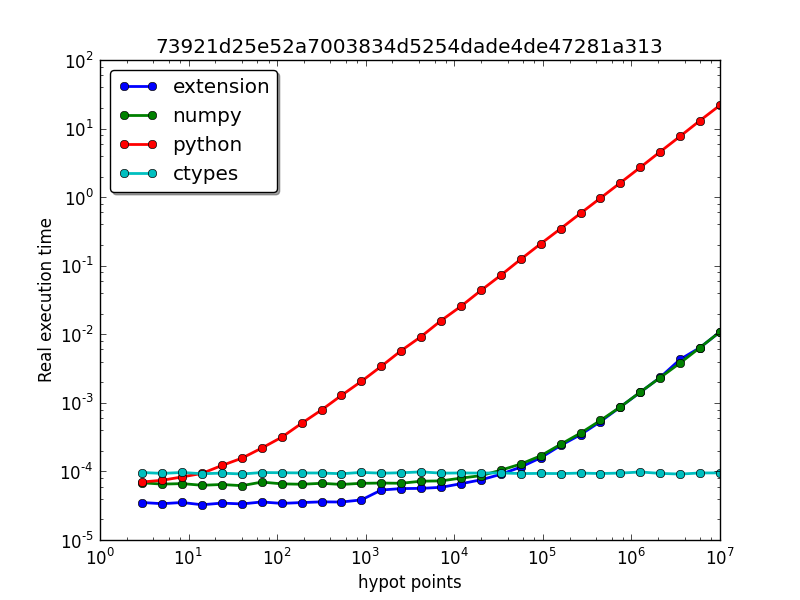
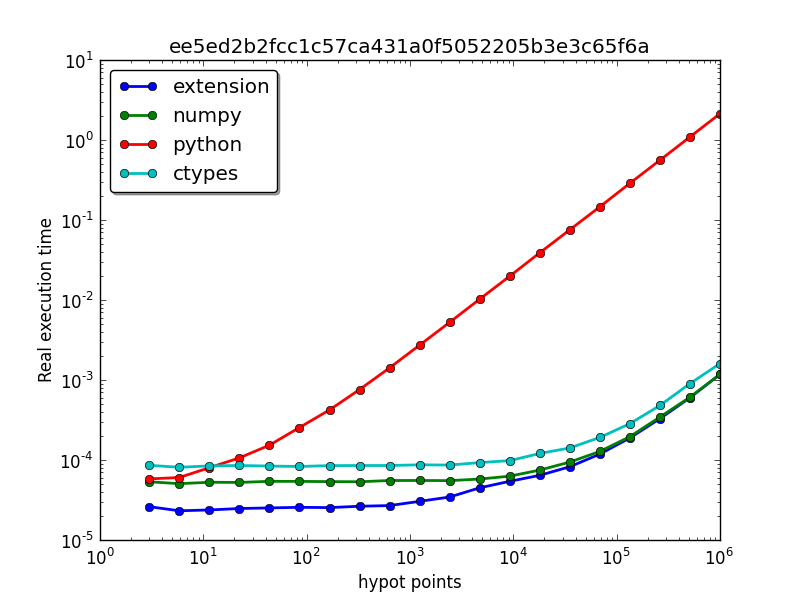
toolbox: more tweaking and changes to hypot() to make it as fast possible as a learning tool

diff --git a/spacepy/toolbox/_toolboxmodule.c b/spacepy/toolbox/_toolboxmodule.c
@@ -10,6 +10,7 @@
 #include <Python.h>
 #include <math.h>
 #include <numpy/arrayobject.h>
+
 #include <datetime.h>
 
 #define PyNumber_AsDouble(y) PyFloat_AsDouble(PyNumber_Float(y))
@@ -141,8 +142,7 @@ static PyObject *hypot_tb(PyObject *self, PyObject *args)
     PyObject *temp_p, *temp_seq;
     PyArrayObject* temp_array;
     PyArray_Descr *array_type;
-    npy_intp j;
-    double *temp_data;
+    double *temp_data, *data_end;
     double tot=0., tmp_d;
 
     if(!TupleSize) {
@@ -161,7 +161,7 @@ static PyObject *hypot_tb(PyObject *self, PyObject *args)
             temp_p = PyArray_Ravel((PyArrayObject*)temp_p, 0);
             arraySize = PyArray_SIZE((PyArrayObject*)temp_p);
 
-            if(arraySize >= 1000) {
+            if(arraySize >= 8000) {
                 temp_array = (PyArrayObject*)PyArray_InnerProduct(temp_p, temp_p);
                 temp_seq = PyArray_Cast(temp_array, NPY_DOUBLE);
                 Py_DECREF(temp_array);
@@ -170,12 +170,14 @@ static PyObject *hypot_tb(PyObject *self, PyObject *args)
             }
             else {
                 array_type = PyArray_DescrFromType(NPY_DOUBLE);
-                temp_array = (PyArrayObject*)PyArray_FromArray((PyArrayObject*)temp_p, array_type, NPY_DEFAULT);
-                Py_DECREF(array_type);
+                // this steals a reference to array_type (by observation from numpy code)
+                temp_array = (PyArrayObject*)PyArray_FromAny(temp_p, array_type, 0, 0, 
+                                                            NPY_CARRAY_RO, NULL);
+                if (temp_array == NULL) return NULL;
                 temp_data = (double*)PyArray_DATA(temp_array);
-                for(j=0; j<arraySize; j++)
-                    tot+=(temp_data[j] * temp_data[j]);
-                Py_DECREF(temp_array);
+                data_end = temp_data + arraySize;
+                for(; temp_data<data_end; temp_data++)
+                    tot+=pow(*temp_data, 2); //tested, same speed as x * x
             }
             return PyFloat_FromDouble(sqrt(tot));
         }

diff --git a/developer/benchmarks/hypot.py b/developer/benchmarks/hypot.py
@@ -16,32 +16,34 @@ from benchmarker import Benchmarker
 
 import matplotlib.pyplot as plt
 
-lib = ctypes.CDLL('hypot.so')
-lib.hypot_c.argtypes = [ctypes.POINTER(ctypes.c_double), ctypes.c_long]
-lib.hypot.restype = ctypes.c_double
-
 
 #==============================================================================
 # Compare them all
 #==============================================================================
-max_size = 1e7
+max_size = 1e6
 data = np.arange(1, max_size , dtype=ctypes.c_double)
 
 lib = ctypes.CDLL('hypot.so')
 lib.hypot_c.argtypes = [ctypes.POINTER(ctypes.c_double), ctypes.c_long]
-lib.hypot.restype = ctypes.c_double
+lib.hypot_c.restype = ctypes.c_double
 
 def ctypes_t(n, data):
-    ans = lib.hypot(data[0:n].ctypes.data_as(ctypes.POINTER(ctypes.c_double)))
+#    ans = lib.hypot_c(data[0:n].ctypes.data_as(ctypes.POINTER(ctypes.c_double)),
+#                      len(data[0:n]))
+    ans = lib.hypot_c(data.ctypes.data_as(ctypes.POINTER(ctypes.c_double)),
+                      len(data))
 
 def python_t(n, data):
-    ans = math.sqrt(sum([v**2 for v in data[0:n]]))
+#    ans = math.sqrt(sum([v**2 for v in data[0:n]]))
+    ans = math.sqrt(sum([v**2 for v in data]))
 
 def numpy_t(n, data):
-    ans = np.sqrt(np.inner(data[0:n], data[0:n]))
+#    ans = np.sqrt(np.inner(data[0:n], data[0:n]))
+    ans = np.sqrt(np.inner(data, data))
 
 def extension_t(n, data):
-    ans = tb.hypot(data[0:n])
+#    ans = tb.hypot(data[0:n])
+    ans = tb.hypot(data)
 
 ans = {}
 ans['ctypes_t'] = []
@@ -49,9 +51,10 @@ ans['python_t'] = []
 ans['numpy_t'] = []
 ans['extension_t'] = []
 
-for loop in tb.logspace(3, max_size, 30):
+for loop in tb.logspace(3, max_size, 20):
     print "loop", loop
     for bm in Benchmarker(width=25, cycle=5, extra=1):
+        data = np.arange(1, loop, dtype=ctypes.c_double)
         bm.run(ctypes_t, loop, data)
         bm.run(python_t, loop, data)
         bm.run(numpy_t, loop, data)

diff --git a/developer/benchmarks/hypot.c b/developer/benchmarks/hypot.c
@@ -4,10 +4,12 @@
 #include <math.h>
 
 double hypot_c(double *inval, long len){
+    double *curr;
     double ans=0.0;
-    long i;
-    for (i=0;i<len;i++)
-        ans += (inval[i]*inval[i]);
+    double *max=inval+len;
+    for (curr=inval;curr<max;curr++) {
+        ans += (*curr * *curr);
+    }
     return (sqrt(ans));
 }
 
